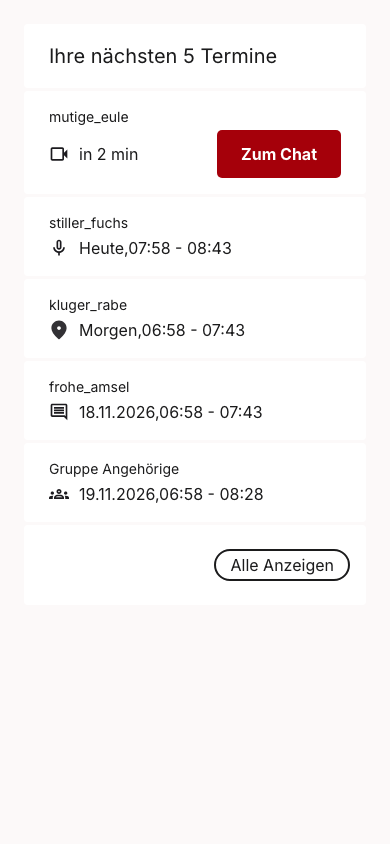
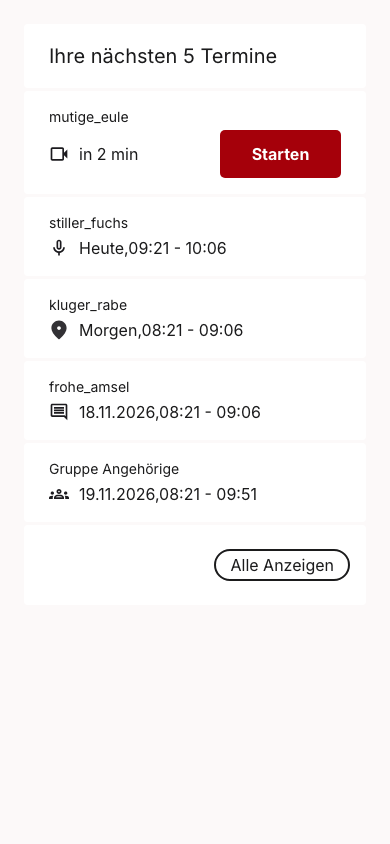
feat(overview): the next video appointment offers "Starten" (FE#1050)
Within five minutes of its start, a video appointment on "Ihre nächsten
Termine" offers "Starten" (overview.start) in place of "Zum Chat". It
opens the conversation the way the calendar does and asks it to start
the video call. The story's play test checks the request arrives; the
after shots are retaken.

diff --git a/src/containers/overview/components/BookingEvent/BookingEvent.test.tsx b/src/containers/overview/components/BookingEvent/BookingEvent.test.tsx
@@ -3,7 +3,8 @@
  * One row of "Ihre nächsten Termine" (FE#1050, item 4; review 4581640883):
  * the symbol and word of the appointment's real kind, the calendar's own;
  * no "Video-Termine sind derzeit nicht verfügbar."; and shortly before a
- * video appointment, its conversation, opened the way the calendar does.
+ * video appointment "Starten": its conversation, opened the way the
+ * calendar does and asked to start the video call (item 5).
  */
 import * as React from 'react';
 import { renderToStaticMarkup } from 'react-dom/server';
@@ -26,6 +27,7 @@ import * as roomApi from '../../../../api/apiGetSessionRooms';
 import * as conversation from '../../../../components/calendar/appointmentConversation';
 import { CalendarEntryGlyph } from '../../../../components/calendar/CalendarEntryGlyph';
 import type { CalendarEntry } from '../../../../components/calendar/calendarModel';
+import { startVideoCallState } from '../../../../components/call/startCallIntent';
 import { BookingEvent } from './index';
 
 vi.mock('react-i18next', () => ({
@@ -88,7 +90,7 @@ const KINDS: [string, Partial<CalendarEntry>, string][] = [
 ];
 
 const OLD_TEXT = 'legacyVideoAppointment.unavailable.message';
-const ZUM_CHAT = 'calendar.entryMenu.chat';
+const START = 'overview.start';
 
 beforeEach(() => {
 	vi.useFakeTimers({ toFake: ['Date', 'setInterval', 'clearInterval'] });
@@ -128,7 +130,7 @@ describe('BookingEvent — the overview row of one appointment', () => {
 		}
 	);
 
-	it('offers "Zum Chat" only for a video appointment within five minutes of its start', () => {
+	it('offers "Starten" only for a video appointment within five minutes of its start', () => {
 		const rows = [
 			appointment({ id: 'video-soon', inMinutes: 3 }),
 			appointment({ id: 'video-later', inMinutes: 10 }),
@@ -150,7 +152,7 @@ describe('BookingEvent — the overview row of one appointment', () => {
 				))}
 			</>
 		);
-		const buttons = screen.getAllByRole('button', { name: ZUM_CHAT });
+		const buttons = screen.getAllByRole('button', { name: START });
 		expect(buttons).toHaveLength(1);
 		expect(
 			screen.getAllByTestId('booking-event')[0].contains(buttons[0])
@@ -160,25 +162,25 @@ describe('BookingEvent — the overview row of one appointment', () => {
 		act(() => {
 			vi.advanceTimersByTime(6 * MINUTE);
 		});
-		expect(screen.getAllByRole('button', { name: ZUM_CHAT })).toHaveLength(
-			2
-		);
+		expect(screen.getAllByRole('button', { name: START })).toHaveLength(2);
 	});
 
-	it('"Zum Chat" opens the conversation through the calendar\'s own path', async () => {
+	it('"Starten" opens the conversation through the calendar\'s own path and asks it to start the video call', async () => {
 		render(<BookingEvent appointment={appointment({ inMinutes: 3 })} />);
-		fireEvent.click(screen.getByRole('button', { name: ZUM_CHAT }));
+		fireEvent.click(screen.getByRole('button', { name: START }));
 		expect(conversation.appointmentRoomOf).toHaveBeenCalledWith(42);
 		await act(async () => {
 			await vi.mocked(conversation.appointmentRoomOf).mock.results[0]
 				.value;
 		});
 		expect(navigate).toHaveBeenCalledWith(
-			conversation.appointmentConversationPath(ROOM, 42, true)
+			conversation.appointmentConversationPath(ROOM, 42, true),
+			{ state: startVideoCallState(42) }
 		);
 		expect(roomApi.apiGetSessionRoomBySessionId).toHaveBeenCalledWith(42);
 		expect(navigate).toHaveBeenCalledWith(
-			`/sessions/consultant/sessionView/${ROOM}/42`
+			`/sessions/consultant/sessionView/${ROOM}/42`,
+			{ state: { startVideoCall: { sessionId: 42 } } }
 		);
 	});
 
@@ -187,7 +189,7 @@ describe('BookingEvent — the overview row of one appointment', () => {
 			sessions: []
 		} as never);
 		render(<BookingEvent appointment={appointment({ inMinutes: 3 })} />);
-		fireEvent.click(screen.getByRole('button', { name: ZUM_CHAT }));
+		fireEvent.click(screen.getByRole('button', { name: START }));
 		expect((await screen.findByRole('alert')).textContent).toBe(
 			'calendar.chatUnavailable'
 		);

diff --git a/src/components/calendar/OverviewBookingCard.stories.tsx b/src/components/calendar/OverviewBookingCard.stories.tsx
@@ -2,9 +2,10 @@ import * as React from 'react';
 import { useEffect, useRef } from 'react';
 import type { Meta, StoryObj } from '@storybook/react-vite';
 import { expect, userEvent, within } from 'storybook/test';
-import { Route, Routes, useParams } from 'react-router-dom';
+import { Route, Routes, useLocation, useParams } from 'react-router-dom';
 import type { CalendarEntryDTO } from '../../api/apiCalendar';
 import { UserDataContext } from '../../globalState';
+import type { StartVideoCallState } from '../call/startCallIntent';
 import { BookingCard } from '../../containers/overview/components/BookingCard/BookingCard';
 import {
 	desktop1440Globals,
@@ -128,12 +129,21 @@ const useOverviewFeed = () => {
 	}, []);
 };
 
-/** Stands in for the conversation the card opens. */
+/**
+ * Stands in for the conversation the card opens, and shows whether it was
+ * asked to start its video call (the conversation's own call controls take
+ * that request up; their tests live with `SessionMenu`).
+ */
 const OpenedConversation = () => {
 	const { roomId, sessionId } = useParams();
+	const { state } = useLocation();
+	const startRequested =
+		(state as Partial<StartVideoCallState> | null)?.startVideoCall
+			?.sessionId === Number(sessionId);
 	return (
 		<p data-cy="opened-conversation">
 			{`Gespräch ${sessionId} (${roomId})`}
+			{startRequested ? ' · Video-Call wird gestartet' : ''}
 		</p>
 	);
 };
@@ -191,7 +201,8 @@ type Story = StoryObj<typeof meta>;
 /**
  * Each row names its kind with the calendar's symbol and word; no row says
  * video calls are unavailable; only the video appointment about to start
- * offers "Zum Chat", which opens its conversation.
+ * offers "Starten", which opens its conversation and asks it to start the
+ * video call (FE#1050 item 5).
  */
 const play: Story['play'] = async ({ canvasElement }) => {
 	const canvas = within(canvasElement);
@@ -210,12 +221,15 @@ const play: Story['play'] = async ({ canvasElement }) => {
 	await expect(
 		canvas.queryByText('Video-Termine sind derzeit nicht verfügbar.')
 	).toBeNull();
-	const chat = canvas.getAllByRole('button', { name: 'Zum Chat' });
-	await expect(chat).toHaveLength(1);
-	await expect(rows[0]).toContainElement(chat[0]);
-	await userEvent.click(chat[0]);
+	await expect(canvas.queryByRole('button', { name: 'Zum Chat' })).toBeNull();
+	const start = canvas.getAllByRole('button', { name: 'Starten' });
+	await expect(start).toHaveLength(1);
+	await expect(rows[0]).toContainElement(start[0]);
+	await userEvent.click(start[0]);
 	await expect(
-		await canvas.findByText(`Gespräch 42 (${ROOM})`)
+		await canvas.findByText(
+			`Gespräch 42 (${ROOM}) · Video-Call wird gestartet`
+		)
 	).toBeInTheDocument();
 };
 

diff --git a/src/containers/overview/components/BookingEvent/index.tsx b/src/containers/overview/components/BookingEvent/index.tsx
@@ -10,6 +10,7 @@ import {
 	appointmentConversationPath,
 	appointmentRoomOf
 } from '../../../../components/calendar/appointmentConversation';
+import { startVideoCallState } from '../../../../components/call/startCallIntent';
 import { Button, BUTTON_TYPES } from '../../../../components/button/Button';
 import {
 	formatToHHMM,
@@ -50,23 +51,26 @@ export const BookingEvent = ({ appointment }: BookingEventProps) => {
 	}, [showCountDown]);
 
 	/*
-	 * A video appointment about to start offers its conversation: the call
-	 * is started there, behind the conversation's own checks (Träger
-	 * switches, consulting type, case state). The card does not start a
-	 * call itself; it opens the conversation the way the calendar does.
+	 * "Starten" on a video appointment about to start (Frank, 2026-11-16):
+	 * the conversation opens the way the calendar opens it, asked to start
+	 * its video call. Its own call button takes that up, with its own
+	 * checks (Träger switches, consulting type, case state); the card
+	 * decides nothing and starts nothing itself.
 	 */
 	const { sessionId } = appointment;
-	const offersChat =
+	const offersStart =
 		showCountDown &&
 		appointment.type === 'appointment' &&
 		facetOf(appointment) === 'video' &&
 		sessionId !== undefined;
-	const openChat = () => {
+	const startCall = () => {
 		if (sessionId === undefined) return;
 		setChatFailed(false);
 		appointmentRoomOf(sessionId).then(
 			(roomId) =>
-				navigate(appointmentConversationPath(roomId, sessionId, true)),
+				navigate(appointmentConversationPath(roomId, sessionId, true), {
+					state: startVideoCallState(sessionId)
+				}),
 			() => setChatFailed(true)
 		);
 	};
@@ -116,12 +120,12 @@ export const BookingEvent = ({ appointment }: BookingEventProps) => {
 					</div>
 				)}
 
-				{offersChat && (
+				{offersStart && (
 					<div className="bookingEvent__start">
 						<Button
-							buttonHandle={openChat}
+							buttonHandle={startCall}
 							item={{
-								label: translate('calendar.entryMenu.chat'),
+								label: 'overview.start',
 								type: BUTTON_TYPES.PRIMARY
 							}}
 						/>
